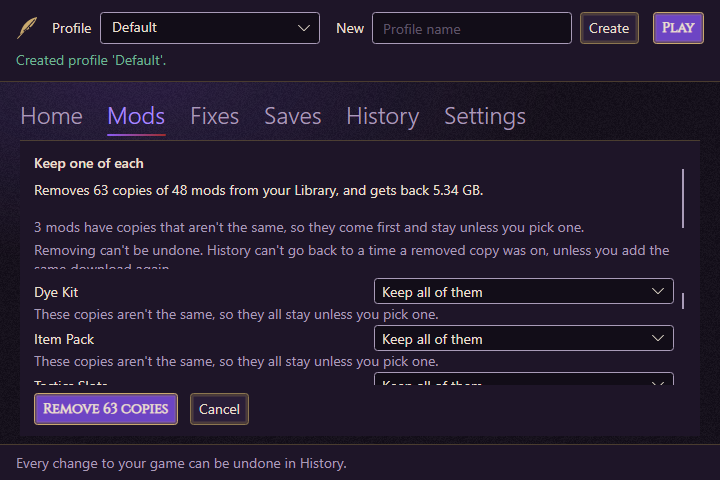
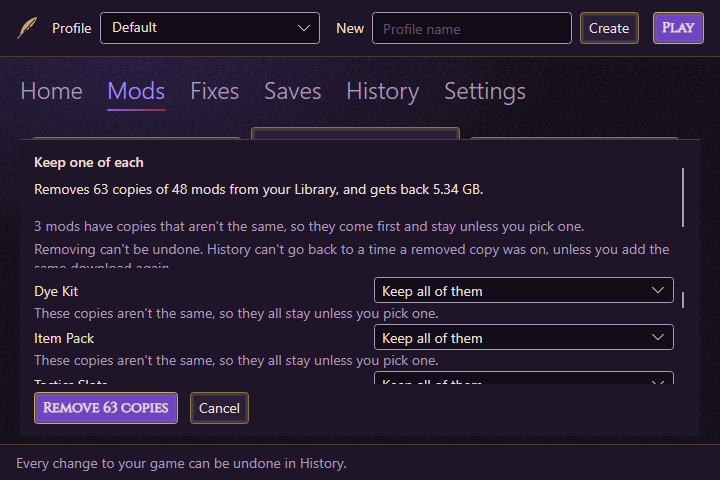
fix(mods): check a swap is current, and label parts by what they are (P2.6-42)
The list stays usable under a preview, so a mod turned on after it would
have been dropped from the record by the old plan. Every swap now checks
first. The picks say "only part" from the set, not from a count that
readmes could throw off.

diff --git a/src/DAORework.Application/Mods/Library/RecordSwap.cs b/src/DAORework.Application/Mods/Library/RecordSwap.cs
@@ -8,7 +8,8 @@ namespace DAORework.Application.Mods.Library;
 /// <summary>
 /// A swap that moves no file (ADR-0039): a copy that is on owns nothing when another copy placed the same files first, so
 /// taking it out only changes the record. With nothing to restore there is no backup, and the record keeps pointing at the
-/// last one. A plan from before another change is refused, since saving it would undo that change in the record.
+/// last one. <see cref="CheckAsync"/> comes first for any swap: the list stays usable under a preview, and a plan from
+/// before another change would drop that change from the record.
 /// </summary>
 public sealed class RecordSwap
 {
@@ -21,7 +22,8 @@ public sealed class RecordSwap
         _journals = journals;
     }
 
-    public async Task<Result> ExecuteAsync(string documentsDirectory, ModActivationPlan plan, CancellationToken cancellationToken = default)
+    /// <summary>Whether <paramref name="plan"/> still starts from what is on, with no change left unfinished.</summary>
+    public async Task<Result> CheckAsync(string documentsDirectory, ModActivationPlan plan, CancellationToken cancellationToken = default)
     {
         ArgumentNullException.ThrowIfNull(plan);
         if (await _journals.LoadAsync(documentsDirectory, cancellationToken) is not null)
@@ -39,7 +41,13 @@ public sealed class RecordSwap
             return Result.Failure(new Error(DiagnosticCodes.ModCopyStillOn, "What's on has changed since this preview.", "Open the preview again."));
         }
 
-        await _records.SaveAsync(documentsDirectory, plan.NextRecord with { BackupId = record.BackupId }, cancellationToken);
         return Result.Success();
+    }
+
+    /// <summary>Saves the record of a checked plan that moves no file.</summary>
+    public Task ExecuteAsync(string documentsDirectory, ModActivationPlan plan, CancellationToken cancellationToken = default)
+    {
+        ArgumentNullException.ThrowIfNull(plan);
+        return _records.SaveAsync(documentsDirectory, plan.NextRecord with { BackupId = plan.CurrentRecord.BackupId }, cancellationToken);
     }
 }

diff --git a/src/DAORework.App/ViewModels/CopyRemoval.cs b/src/DAORework.App/ViewModels/CopyRemoval.cs
@@ -13,15 +13,28 @@ public sealed class CopyRemoval(RemoveCopies remove, RecordSwap recordSwap, Chan
     {
         if (swap is not null && documents is not null)
         {
-            var swapped = swap.IsEmpty
-                ? (await recordSwap.ExecuteAsync(documents, swap, cancellationToken)).Error
-                : (await change.ApplyAsync(title, new ApplyModPlanRequest(documents, swap), cancellationToken)).Error;
-            if (swapped is { } failed)
+            if (await SwapAsync(title, swap, documents, cancellationToken) is { } failed)
             {
                 return failed with { Message = $"Nothing was removed: {failed.Message}" };
             }
         }
 
         return (await change.RunAsync(title, _ => Task.Run(() => remove.ExecuteAsync(modIds, cancellationToken), cancellationToken))).Error;
+    }
+
+    private async Task<Error?> SwapAsync(string title, ModActivationPlan swap, string documents, CancellationToken cancellationToken)
+    {
+        if ((await recordSwap.CheckAsync(documents, swap, cancellationToken)).Error is { } stale)
+        {
+            return stale;
+        }
+
+        if (!swap.IsEmpty)
+        {
+            return (await change.ApplyAsync(title, new ApplyModPlanRequest(documents, swap), cancellationToken)).Error;
+        }
+
+        await recordSwap.ExecuteAsync(documents, swap, cancellationToken);
+        return null;
     }
 }

diff --git a/src/DAORework.App/ViewModels/KeepEachWords.cs b/src/DAORework.App/ViewModels/KeepEachWords.cs
@@ -77,7 +77,7 @@ internal static class KeepEachWords
         }
 
         var plan = set.Plan;
-        var lost = KeepCopyWords.Lost(plan.OnlyInRemoved) ?? (set.HasParts ? "The others are only part of this one, so nothing is lost." : null);
+        var lost = KeepCopyWords.Lost(plan.OnlyInRemoved) ?? (set.Parts.Count > 0 ? "The others are only part of this one, so nothing is lost." : null);
         var swapped = plan.SwappedOut is { } name && !set.On.Contains(plan.Kept.Mod.Id, StringComparer.OrdinalIgnoreCase)
             ? $"{ModDisplayName.For(name)} is on, so this one takes its place."
             : null;
@@ -99,7 +99,7 @@ internal static class KeepEachWords
         var name = entry.Mod.Name == set.Copies[0].Mod.Name ? entry.SourceName : ModDisplayName.For(entry.Mod.Name);
         var on = set.On.Contains(entry.Mod.Id, StringComparer.OrdinalIgnoreCase);
         var newest = ReferenceEquals(entry, set.Copies.MaxBy(e => e.ImportedAtUtc));
-        var part = set.HasParts && entry.Mod.Files.Count < set.Copies[0].Mod.Files.Count;
+        var part = set.Parts.Contains(entry.Mod.Id, StringComparer.OrdinalIgnoreCase);
         return string.Join(", ", new[] { name, on ? "on" : null, newest ? "newest" : null, part ? "only part" : null }.OfType<string>());
     }
 

diff --git a/tests/DAORework.App.Tests/KeepEachPartsTests.cs b/tests/DAORework.App.Tests/KeepEachPartsTests.cs
@@ -111,6 +111,26 @@ public sealed class KeepEachPartsTests : IDisposable
     }
 
     [AvaloniaFact]
+    public async Task AChangeAfterThePreview_IsNotLost_WhenTheSwapMovesFiles()
+    {
+        var (_, viewModel) = await _sets.OpenAsync(seedInstall: false);
+        await _sets.ImportAsync(viewModel, "Lips.zip", "lips.dds", "DDS lips");
+        await _scenario.ActivateAsync(viewModel, "Eyes");
+        var keep = viewModel.ModsTab.KeepEach;
+        await keep.PlanCommand.ExecuteAsync(null);
+        await PickOtherCopyAsync(keep, "Eyes");
+
+        await _scenario.ActivateAsync(viewModel, "Lips");
+        await keep.RemoveCopiesCommand.ExecuteAsync(null);
+
+        Assert.True(keep.IsError);
+        Assert.Contains("Nothing was removed: What's on has changed", keep.StatusMessage, StringComparison.Ordinal);
+        Assert.Equal(2, viewModel.ModsTab.Activation.ActiveModIds.Count);
+        Assert.True(viewModel.Library.Mods.Single(m => m.Title == "Lips").IsActive);
+        Assert.Equal(5, viewModel.Library.Mods.Count);
+    }
+
+    [AvaloniaFact]
     public async Task EveryRowOfASet_SaysSo()
     {
         var (_, viewModel) = await OpenWithAPartAsync();

diff --git a/src/DAORework.Core/Mods/Library/KeepEachSet.cs b/src/DAORework.Core/Mods/Library/KeepEachSet.cs
@@ -12,8 +12,8 @@ public sealed record KeepEachSet(string Group, IReadOnlyList<LibraryEntry> Copie
     /// <summary>Gets a value indicating whether no copy holds everything, so keeping any one loses something.</summary>
     public bool Differs { get; init; }
 
-    /// <summary>Gets a value indicating whether one copy is only part of another.</summary>
-    public bool HasParts { get; init; }
+    /// <summary>Gets the copies that are only part of another, by id.</summary>
+    public IReadOnlyList<string> Parts { get; init; } = [];
 
     /// <summary>Gets a value indicating whether this set stays as it is: the player chose that, or it differs and they haven't chosen.</summary>
     public bool KeepsAll { get; init; }

diff --git a/src/DAORework.Core/Mods/Library/KeepOneOfEach.cs b/src/DAORework.Core/Mods/Library/KeepOneOfEach.cs
@@ -49,7 +49,7 @@ public static class KeepOneOfEach
         {
             On = [.. copies.Where(e => IsOn(e, selected)).Select(e => e.Mod.Id)],
             Differs = holders.Count == 0,
-            HasParts = copies.Any(e => found[e.Mod.Id].IsPart),
+            Parts = [.. copies.Where(e => found[e.Mod.Id].IsPart).Select(e => e.Mod.Id)],
             KeepsAll = (picked && id is null) || (chosen is null && holders.Count == 0),
         };
     }

diff --git a/tests/DAORework.Core.Tests/Mods/KeepOneOfEachTests.cs b/tests/DAORework.Core.Tests/Mods/KeepOneOfEachTests.cs
@@ -156,7 +156,7 @@ public sealed class KeepOneOfEachTests
 
         var set = Assert.Single(plan.Sets);
         Assert.Equal("whole", set.Plan.Kept.Mod.Id);
-        Assert.True(set.HasParts);
+        Assert.Equal(["part"], set.Parts);
         Assert.False(set.Differs);
         Assert.Equal(["a", "whole"], plan.SwappedOrder);
     }

diff --git a/docs/adr/0039-look-first-and-keep-one-copy.md b/docs/adr/0039-look-first-and-keep-one-copy.md
@@ -55,7 +55,9 @@ record that names a mod needs that mod to plan anything, and a moved file can co
   removing is permanent and cuts Undo. Sets that really differ are no next step: a player may mean to keep them.
 - All swaps go in one plan, applied once, and only then is anything removed.
 - A copy can be on and own no file, when another copy placed the same files first. Taking it out moves nothing, so only the
-  record changes, with no backup and no entry in History. It is refused if what is on has changed since the preview.
+  record changes, with no backup and no entry in History.
+- Any swap is refused if what is on has changed since the preview, since the list stays usable under it and the old plan
+  would drop that change from the record.
 - A set that can't be cleared, because a copy is on in another profile, stays as it is and says why. The others go ahead:
   one stuck set shouldn't hold up fifty. An unfinished change still stops everything.
 - Only one of the two previews can be open. Two made before either ran could remove the copy the other keeps.
